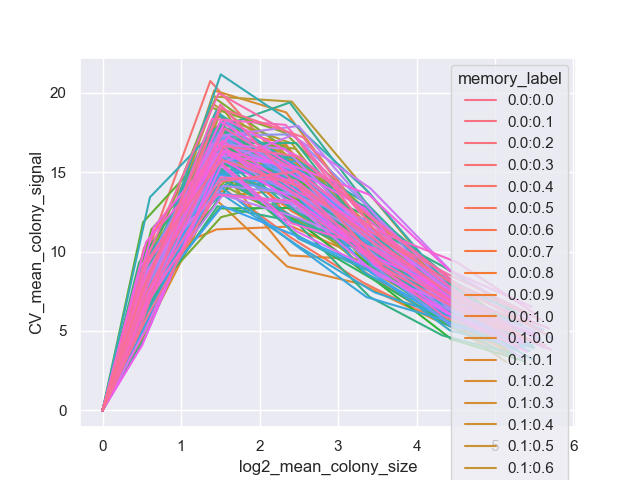
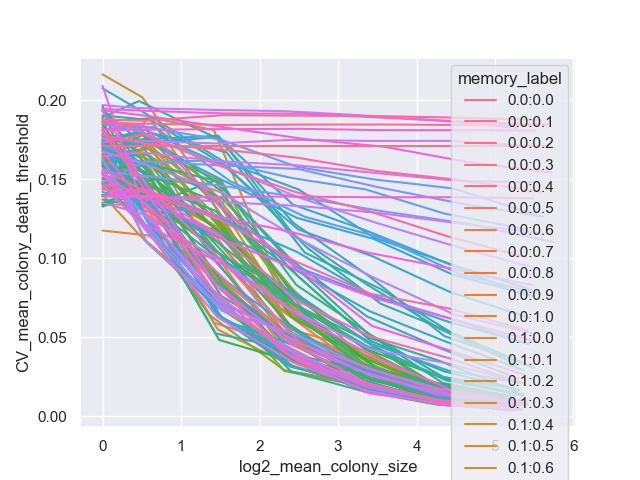
Updated code to use death_threshold instead of signal (t_death is effectively a feature since no cell death was used in the simulations).

diff --git a/scripts/Mother vs Sister Memory Test/cliche_analysis_mother_sisters_data.py b/scripts/Mother vs Sister Memory Test/cliche_analysis_mother_sisters_data.py
@@ -13,7 +13,7 @@ SETTINGS = {
     'input_path': str(DATA_SYMLINK_PATH / 'condensed_data.csv'),
     'cache_path': str(DATA_SYMLINK_PATH / 'cliche_cached_data.csv'),
     'log2_colony_size': True,
-    'split_lines': True,
+    'split_lines': False,
     'refresh_cache': False,
 }
 
@@ -42,7 +42,7 @@ def main(
             mother_memory=('mother_memory', 'first'),  # keep this column
             sister_memory=('sister_memory', 'first'),  # keep this column
             colony_size=('Unnamed: 0', 'count'),
-            mean_colony_signal=('signal_value', 'mean'),
+            mean_colony_death_threshold=('death_threshold', 'mean'),
         )
         .reset_index()
     )
@@ -55,7 +55,7 @@ def main(
             sister_memory=('sister_memory', 'first'),  # keep this column
             mean_colony_size=('colony_size', 'mean'),
             log2_mean_colony_size=('colony_size', lambda group: np.log2(group.mean())),
-            CV_mean_colony_signal=('mean_colony_signal', lambda group: group.var() / group.mean()),
+            CV_mean_colony_death_threshold=('mean_colony_death_threshold', lambda group: group.var() / group.mean()),
         )
         .reset_index()
     )
@@ -65,7 +65,7 @@ def main(
             data=data,
             kind='line',
             x='mean_colony_size' if not log2_colony_size else 'log2_mean_colony_size',
-            y='CV_mean_colony_signal',
+            y='CV_mean_colony_death_threshold',
             row='mother_memory',
             col='sister_memory',
         )
@@ -74,7 +74,7 @@ def main(
         sns.lineplot(
             data=data,
             x='mean_colony_size' if not log2_colony_size else 'log2_mean_colony_size',
-            y='CV_mean_colony_signal',
+            y='CV_mean_colony_death_threshold',
             hue='memory_label',
         )
         plt.savefig('plot_merge.png')
